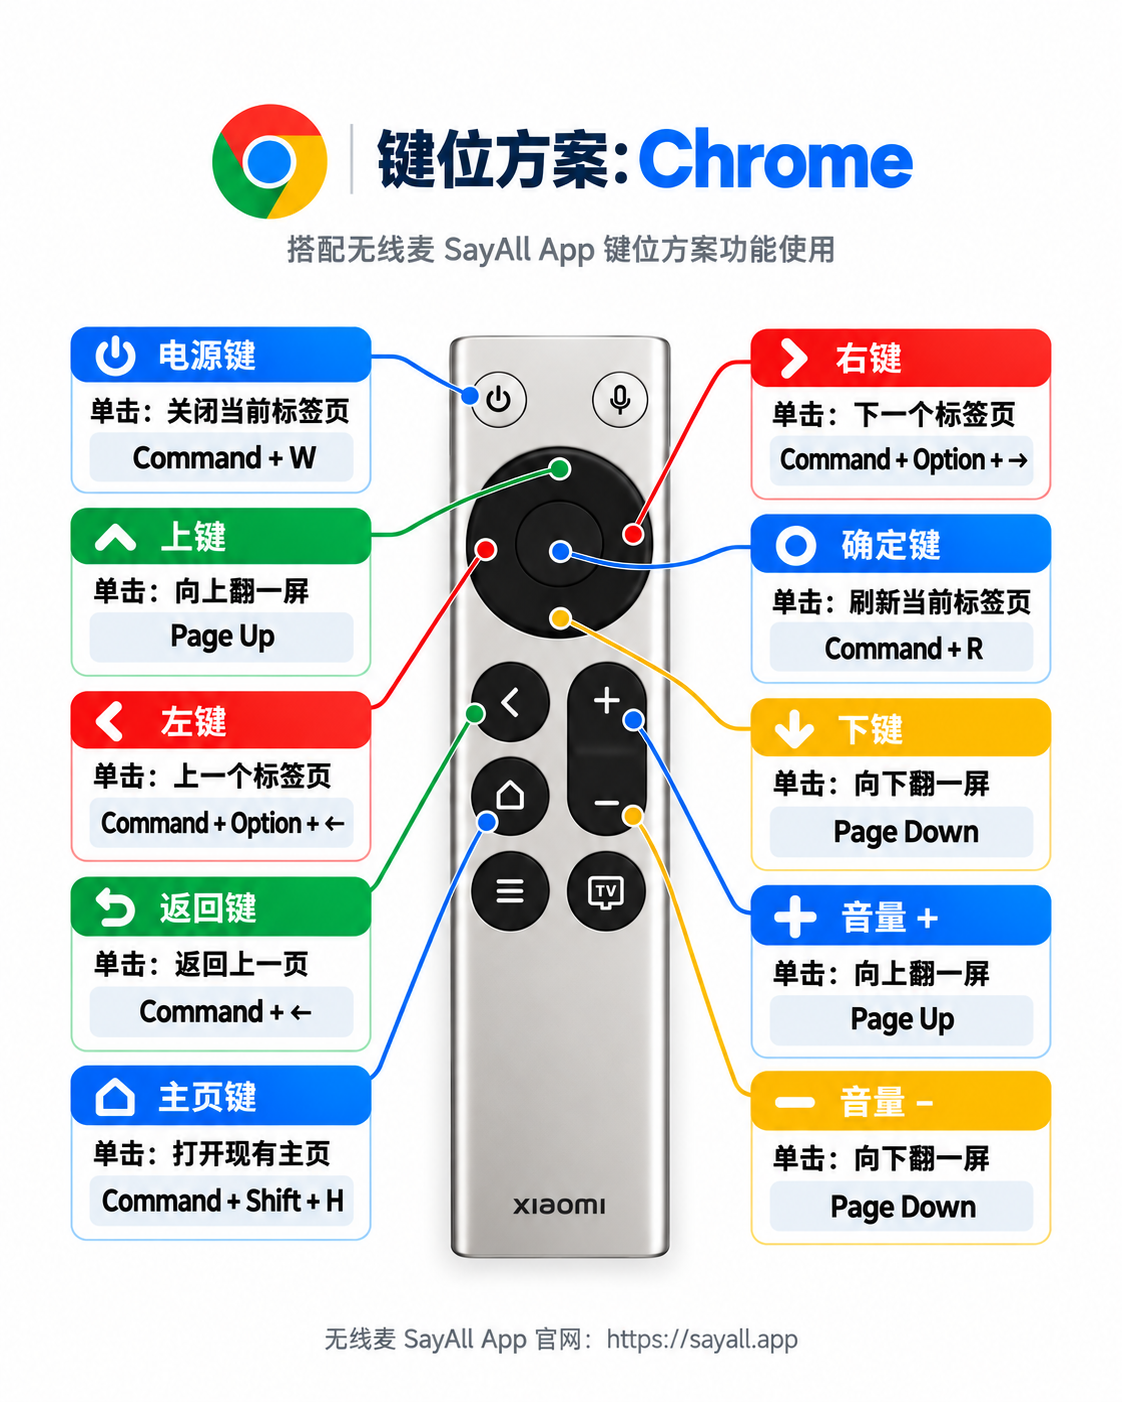
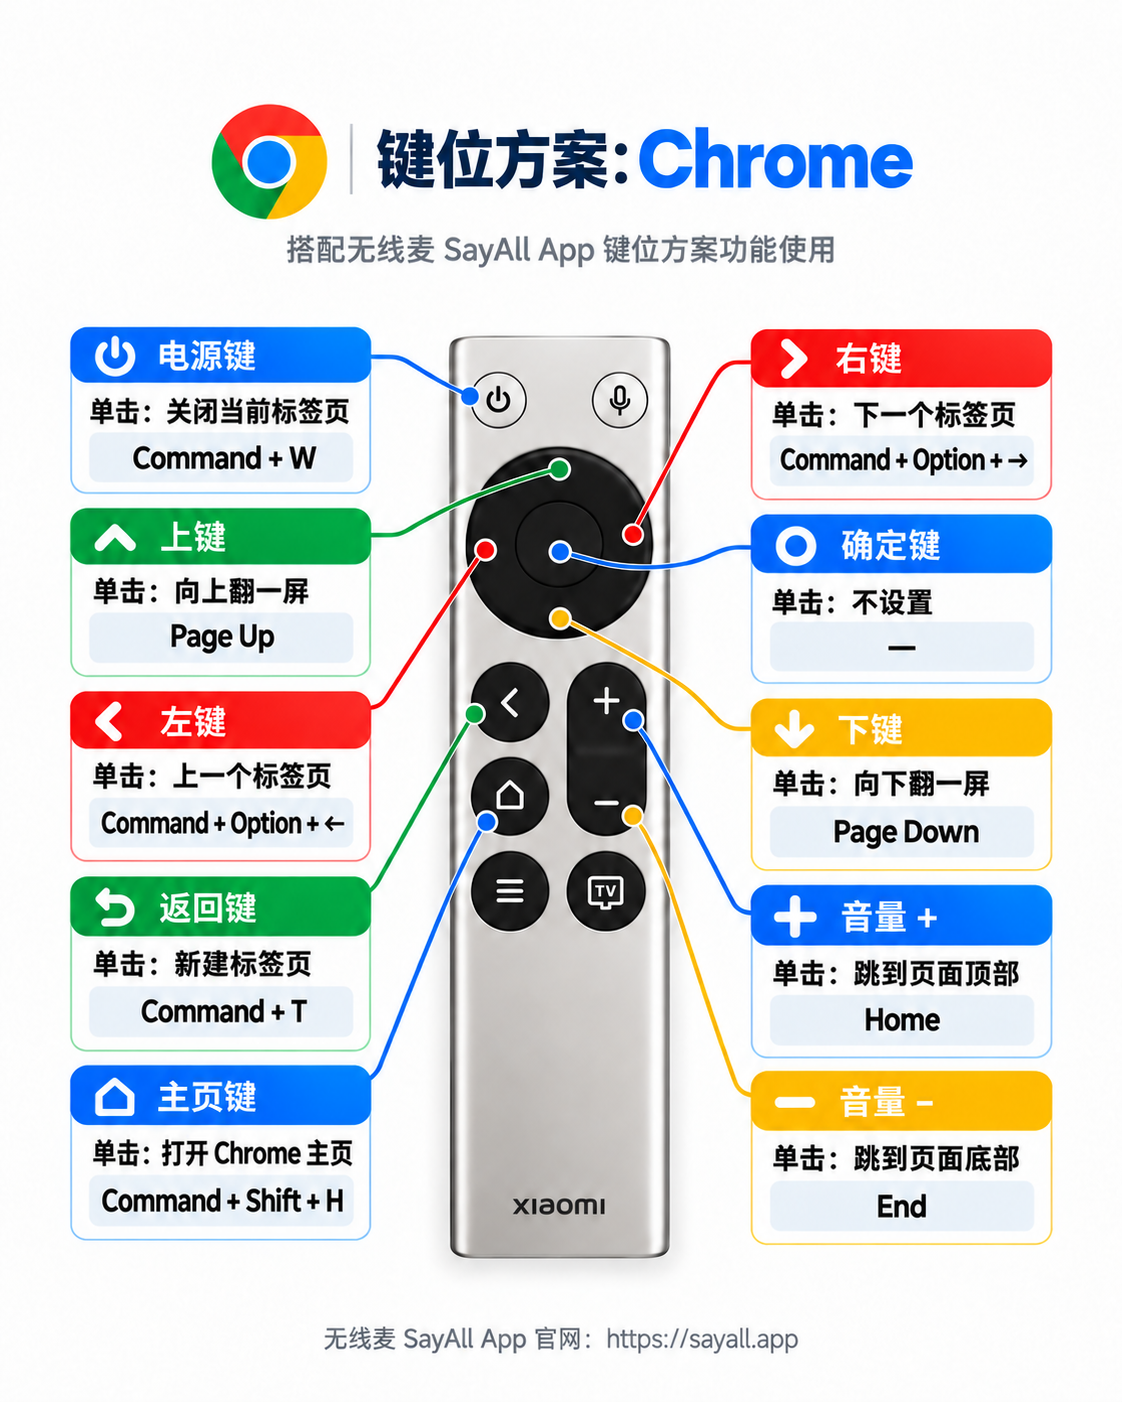
fix: update Chrome profile and app artwork

diff --git a/docs/seven-app-10-key-presets.html b/docs/seven-app-10-key-presets.html
@@ -688,35 +688,35 @@ WorkBuddy 的任务切换方向仍需实际验收。</p>
 <td>Return：发送 / 确认</td>
 <td>Space：播放 / 暂停</td>
 <td>Space：播放 / 暂停</td>
-<td>⌘ R：刷新当前标签页</td>
+<td>不设置，保留原始 Enter</td>
 </tr>
 <tr>
 <td>返回</td>
 <td>⌫：删除字符</td>
 <td>⌫：删除选中片段，待验</td>
 <td>Esc：退出全屏，候选</td>
-<td>⌘ ←：返回上一页</td>
+<td>⌘ T：新建标签页</td>
 </tr>
 <tr>
 <td>主页</td>
 <td>不设置</td>
 <td>不设置</td>
 <td>不设置</td>
-<td>⌘ ⇧ H：打开现有主页</td>
+<td>⌘ ⇧ H：打开 Chrome 主页</td>
 </tr>
 <tr>
 <td>音量+</td>
 <td>Page Up</td>
 <td>不设置：放大键值待确认</td>
 <td>增大系统音量</td>
-<td>Page Up</td>
+<td>Home：跳到页面顶部</td>
 </tr>
 <tr>
 <td>音量-</td>
 <td>Page Down</td>
 <td>Page Down</td>
 <td>减小系统音量</td>
-<td>Page Down</td>
+<td>End：跳到页面底部</td>
 </tr>
 <tr>
 <td>关机</td>
@@ -734,7 +734,7 @@ WorkBuddy 的任务切换方向仍需实际验收。</p>
 抖音音量键改变系统音量，不改变播放器音量滑块。
 ⌘ H 隐藏目标 App 的全部窗口，App 继续运行。
 抖音方案不能用于网页标签，否则会隐藏浏览器。</p>
-<p>Chrome 主页键使用现有主页地址。
+<p>Chrome 主页键使用 ⌘ ⇧ H 打开 Chrome 主页。
 关闭最后一个标签页时，Chrome 可能关闭窗口。</p>
 </div></div>
 </section>
@@ -970,7 +970,7 @@ WorkBuddy 键值参考本机已有快捷键设置。
 </div>
 </div>
 </main>
-<footer class="am-colophon">Generated by Answer me with HTML 0.4.6 · 2026-10-21 01:51</footer>
+<footer class="am-colophon">Generated by Answer me with HTML 0.4.6 · 2026-10-24 19:28</footer>
 <textarea id="am-source" hidden readonly aria-hidden="true">---
 title: 9 个 App · 遥控器 10 键方案
 subtitle: 无线麦SayAll.app · 下载 .sayall 后在 Mac App 导入
@@ -1069,11 +1069,11 @@ WorkBuddy 的任务切换方向仍需实际验收。
 | 下 | ↓：光标 / 列表下移 | 不设置 | ↓：下一条视频 | Page Down |
 | 左 | ←：光标左移 | ←：上一帧 | ←：视频后退 | ⌘ ⌥ ←：上一个标签页 |
 | 右 | →：光标右移 | →：下一帧 | →：视频快进 | ⌘ ⌥ →：下一个标签页 |
-| OK | Return：发送 / 确认 | Space：播放 / 暂停 | Space：播放 / 暂停 | ⌘ R：刷新当前标签页 |
-| 返回 | ⌫：删除字符 | ⌫：删除选中片段，待验 | Esc：退出全屏，候选 | ⌘ ←：返回上一页 |
-| 主页 | 不设置 | 不设置 | 不设置 | ⌘ ⇧ H：打开现有主页 |
-| 音量+ | Page Up | 不设置：放大键值待确认 | 增大系统音量 | Page Up |
-| 音量- | Page Down | Page Down | 减小系统音量 | Page Down |
+| OK | Return：发送 / 确认 | Space：播放 / 暂停 | Space：播放 / 暂停 | 不设置，保留原始 Enter |
+| 返回 | ⌫：删除字符 | ⌫：删除选中片段，待验 | Esc：退出全屏，候选 | ⌘ T：新建标签页 |
+| 主页 | 不设置 | 不设置 | 不设置 | ⌘ ⇧ H：打开 Chrome 主页 |
+| 音量+ | Page Up | 不设置：放大键值待确认 | 增大系统音量 | Home：跳到页面顶部 |
+| 音量- | Page Down | Page Down | 减小系统音量 | End：跳到页面底部 |
 | 关机 | ⌘ H：隐藏窗口 | ⌘ Z：撤销 | ⌘ H：隐藏窗口 | ⌘ W：关闭当前标签页 |
 
 微信方向键用于光标或列表导航，不保证切换聊天。
@@ -1086,9 +1086,8 @@ WorkBuddy 的任务切换方向仍需实际验收。
 ⌘ H 隐藏目标 App 的全部窗口，App 继续运行。
 抖音方案不能用于网页标签，否则会隐藏浏览器。
 
-Chrome 主页键使用现有主页地址。
+Chrome 主页键使用 ⌘ ⇧ H 打开 Chrome 主页。
 关闭最后一个标签页时，Chrome 可能关闭窗口。
-
 ## E 网易云音乐 · 第 8 套方案
 
 适用 macOS 网易云音乐。

diff --git a/docs/seven-app-10-key-presets.md b/docs/seven-app-10-key-presets.md
@@ -96,11 +96,11 @@ WorkBuddy 的任务切换方向仍需实际验收。
 | 下 | ↓：光标 / 列表下移 | 不设置 | ↓：下一条视频 | Page Down |
 | 左 | ←：光标左移 | ←：上一帧 | ←：视频后退 | ⌘ ⌥ ←：上一个标签页 |
 | 右 | →：光标右移 | →：下一帧 | →：视频快进 | ⌘ ⌥ →：下一个标签页 |
-| OK | Return：发送 / 确认 | Space：播放 / 暂停 | Space：播放 / 暂停 | ⌘ R：刷新当前标签页 |
-| 返回 | ⌫：删除字符 | ⌫：删除选中片段，待验 | Esc：退出全屏，候选 | ⌘ ←：返回上一页 |
-| 主页 | 不设置 | 不设置 | 不设置 | ⌘ ⇧ H：打开现有主页 |
-| 音量+ | Page Up | 不设置：放大键值待确认 | 增大系统音量 | Page Up |
-| 音量- | Page Down | Page Down | 减小系统音量 | Page Down |
+| OK | Return：发送 / 确认 | Space：播放 / 暂停 | Space：播放 / 暂停 | 不设置，保留原始 Enter |
+| 返回 | ⌫：删除字符 | ⌫：删除选中片段，待验 | Esc：退出全屏，候选 | ⌘ T：新建标签页 |
+| 主页 | 不设置 | 不设置 | 不设置 | ⌘ ⇧ H：打开 Chrome 主页 |
+| 音量+ | Page Up | 不设置：放大键值待确认 | 增大系统音量 | Home：跳到页面顶部 |
+| 音量- | Page Down | Page Down | 减小系统音量 | End：跳到页面底部 |
 | 关机 | ⌘ H：隐藏窗口 | ⌘ Z：撤销 | ⌘ H：隐藏窗口 | ⌘ W：关闭当前标签页 |
 
 微信方向键用于光标或列表导航，不保证切换聊天。
@@ -113,7 +113,7 @@ WorkBuddy 的任务切换方向仍需实际验收。
 ⌘ H 隐藏目标 App 的全部窗口，App 继续运行。
 抖音方案不能用于网页标签，否则会隐藏浏览器。
 
-Chrome 主页键使用现有主页地址。
+Chrome 主页键使用 ⌘ ⇧ H 打开 Chrome 主页。
 关闭最后一个标签页时，Chrome 可能关闭窗口。
 
 ## E 网易云音乐 · 第 8 套方案
